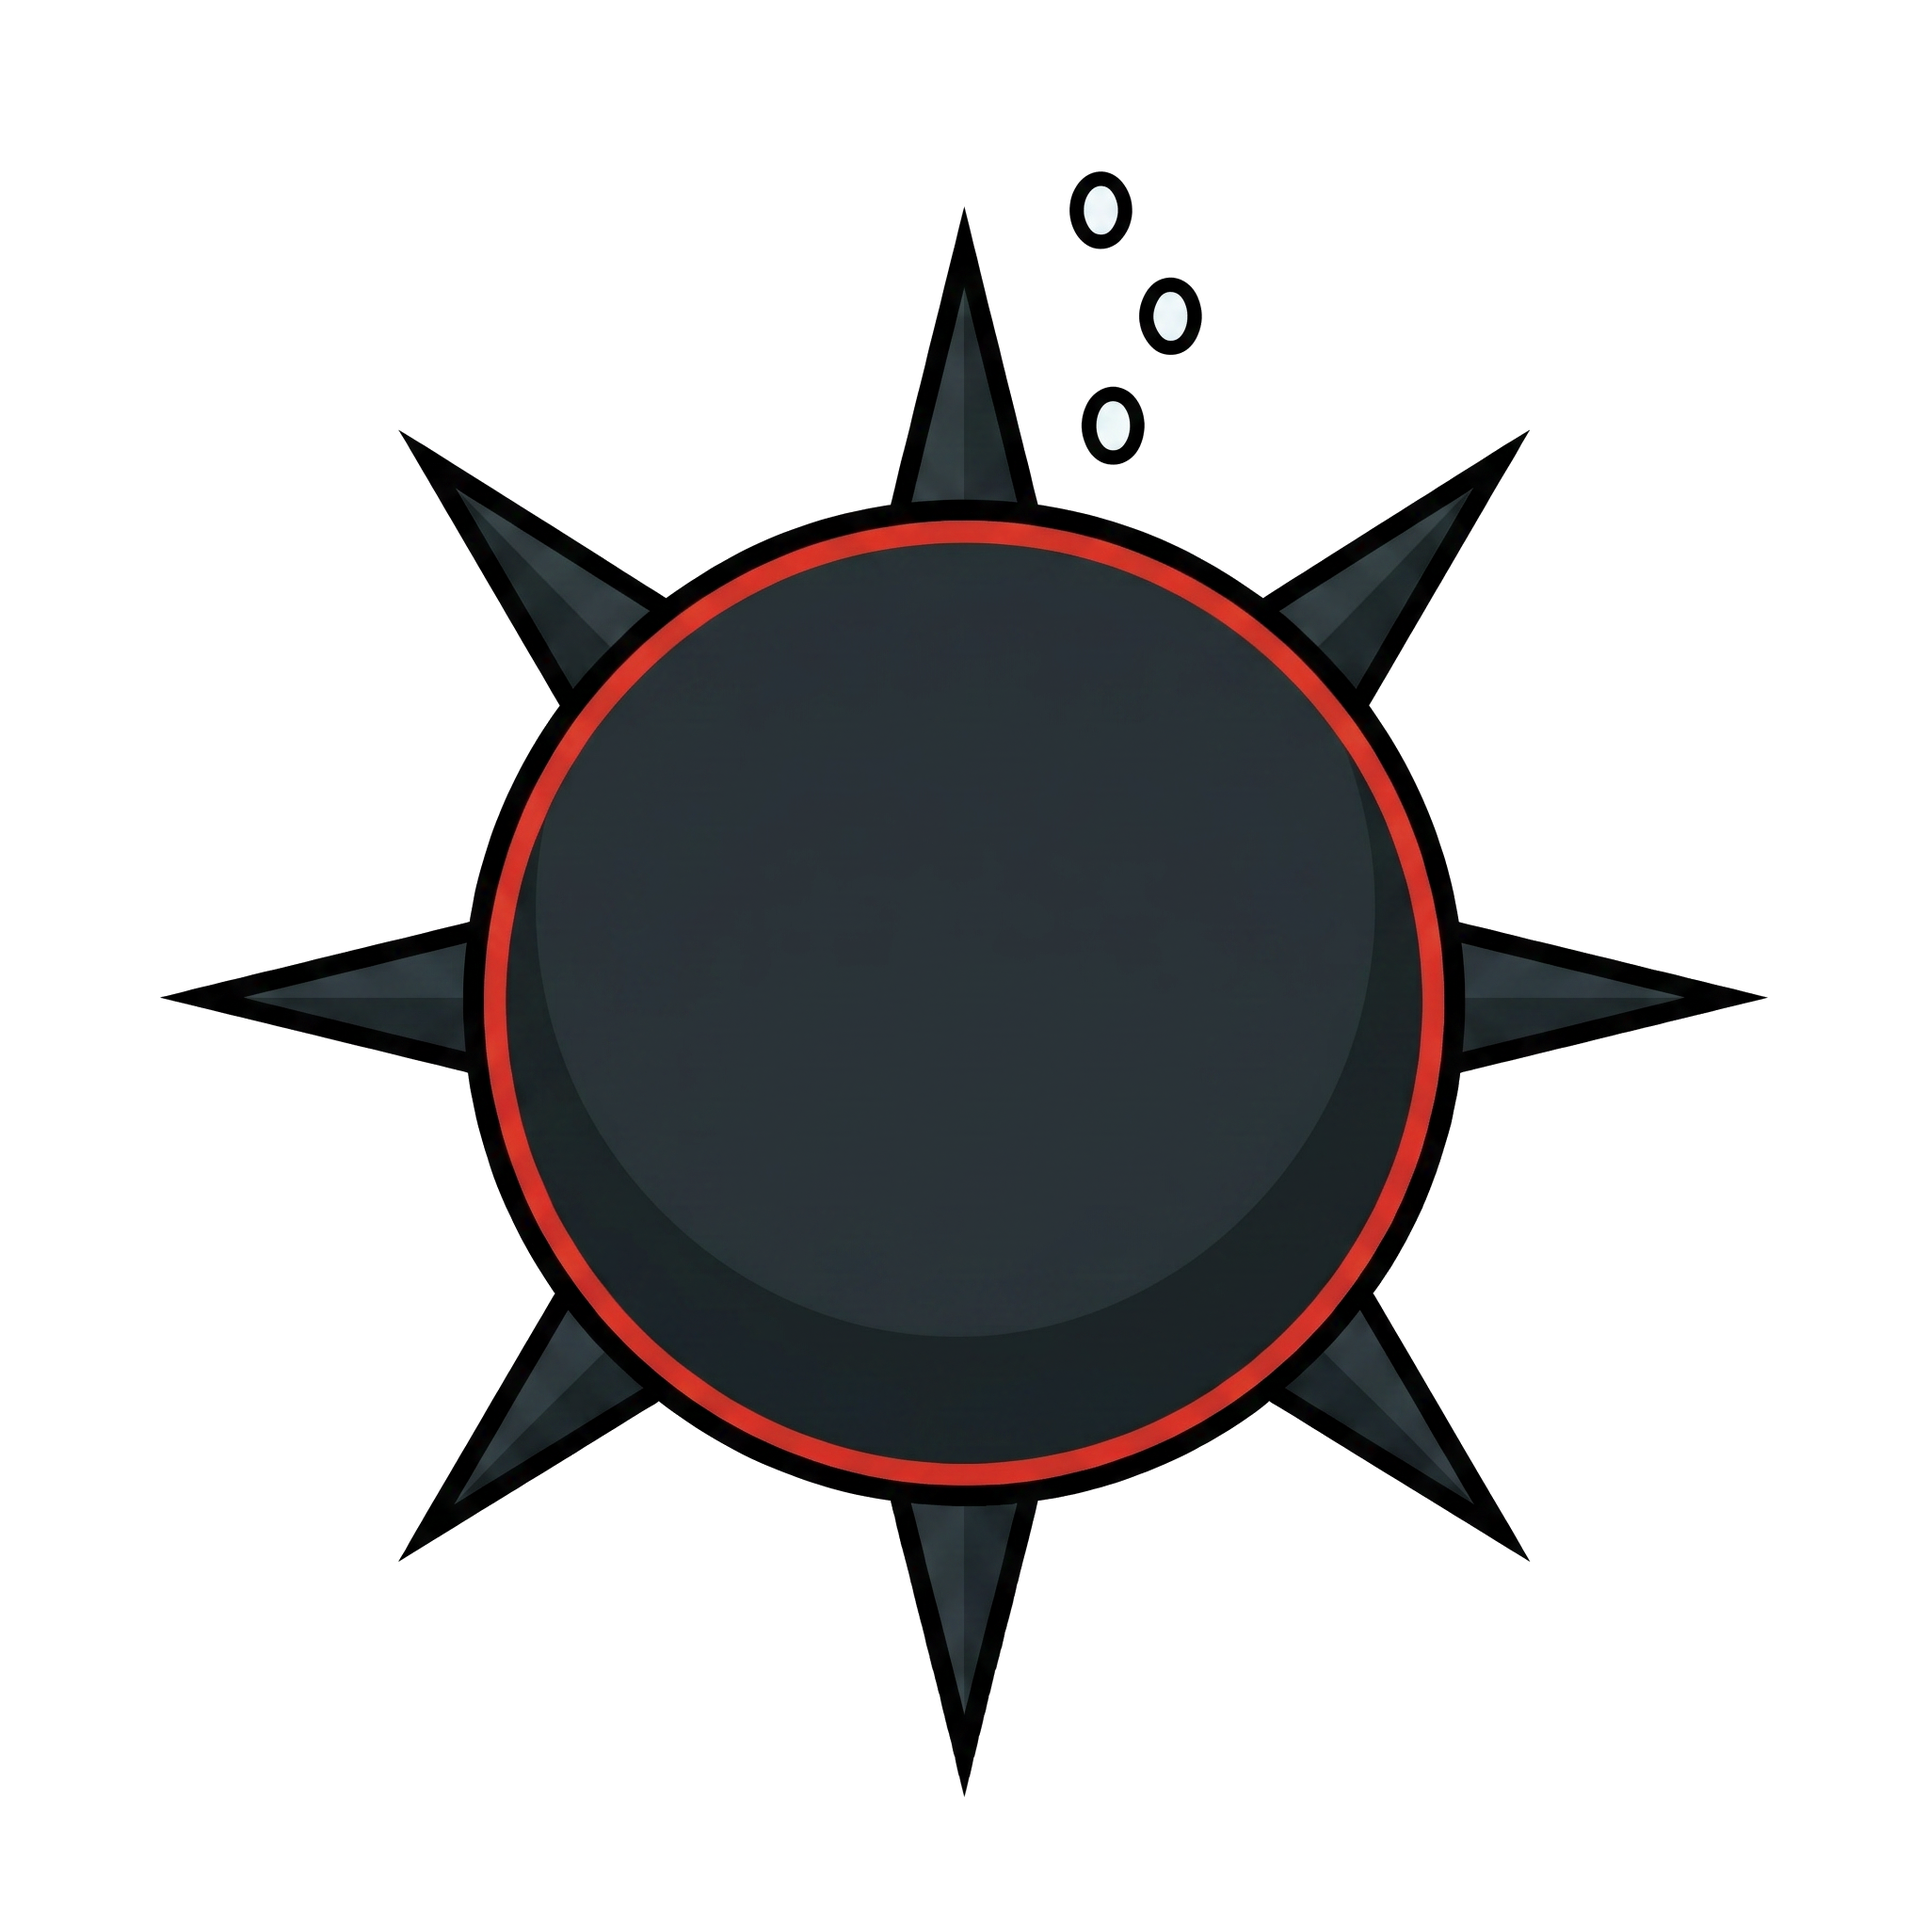
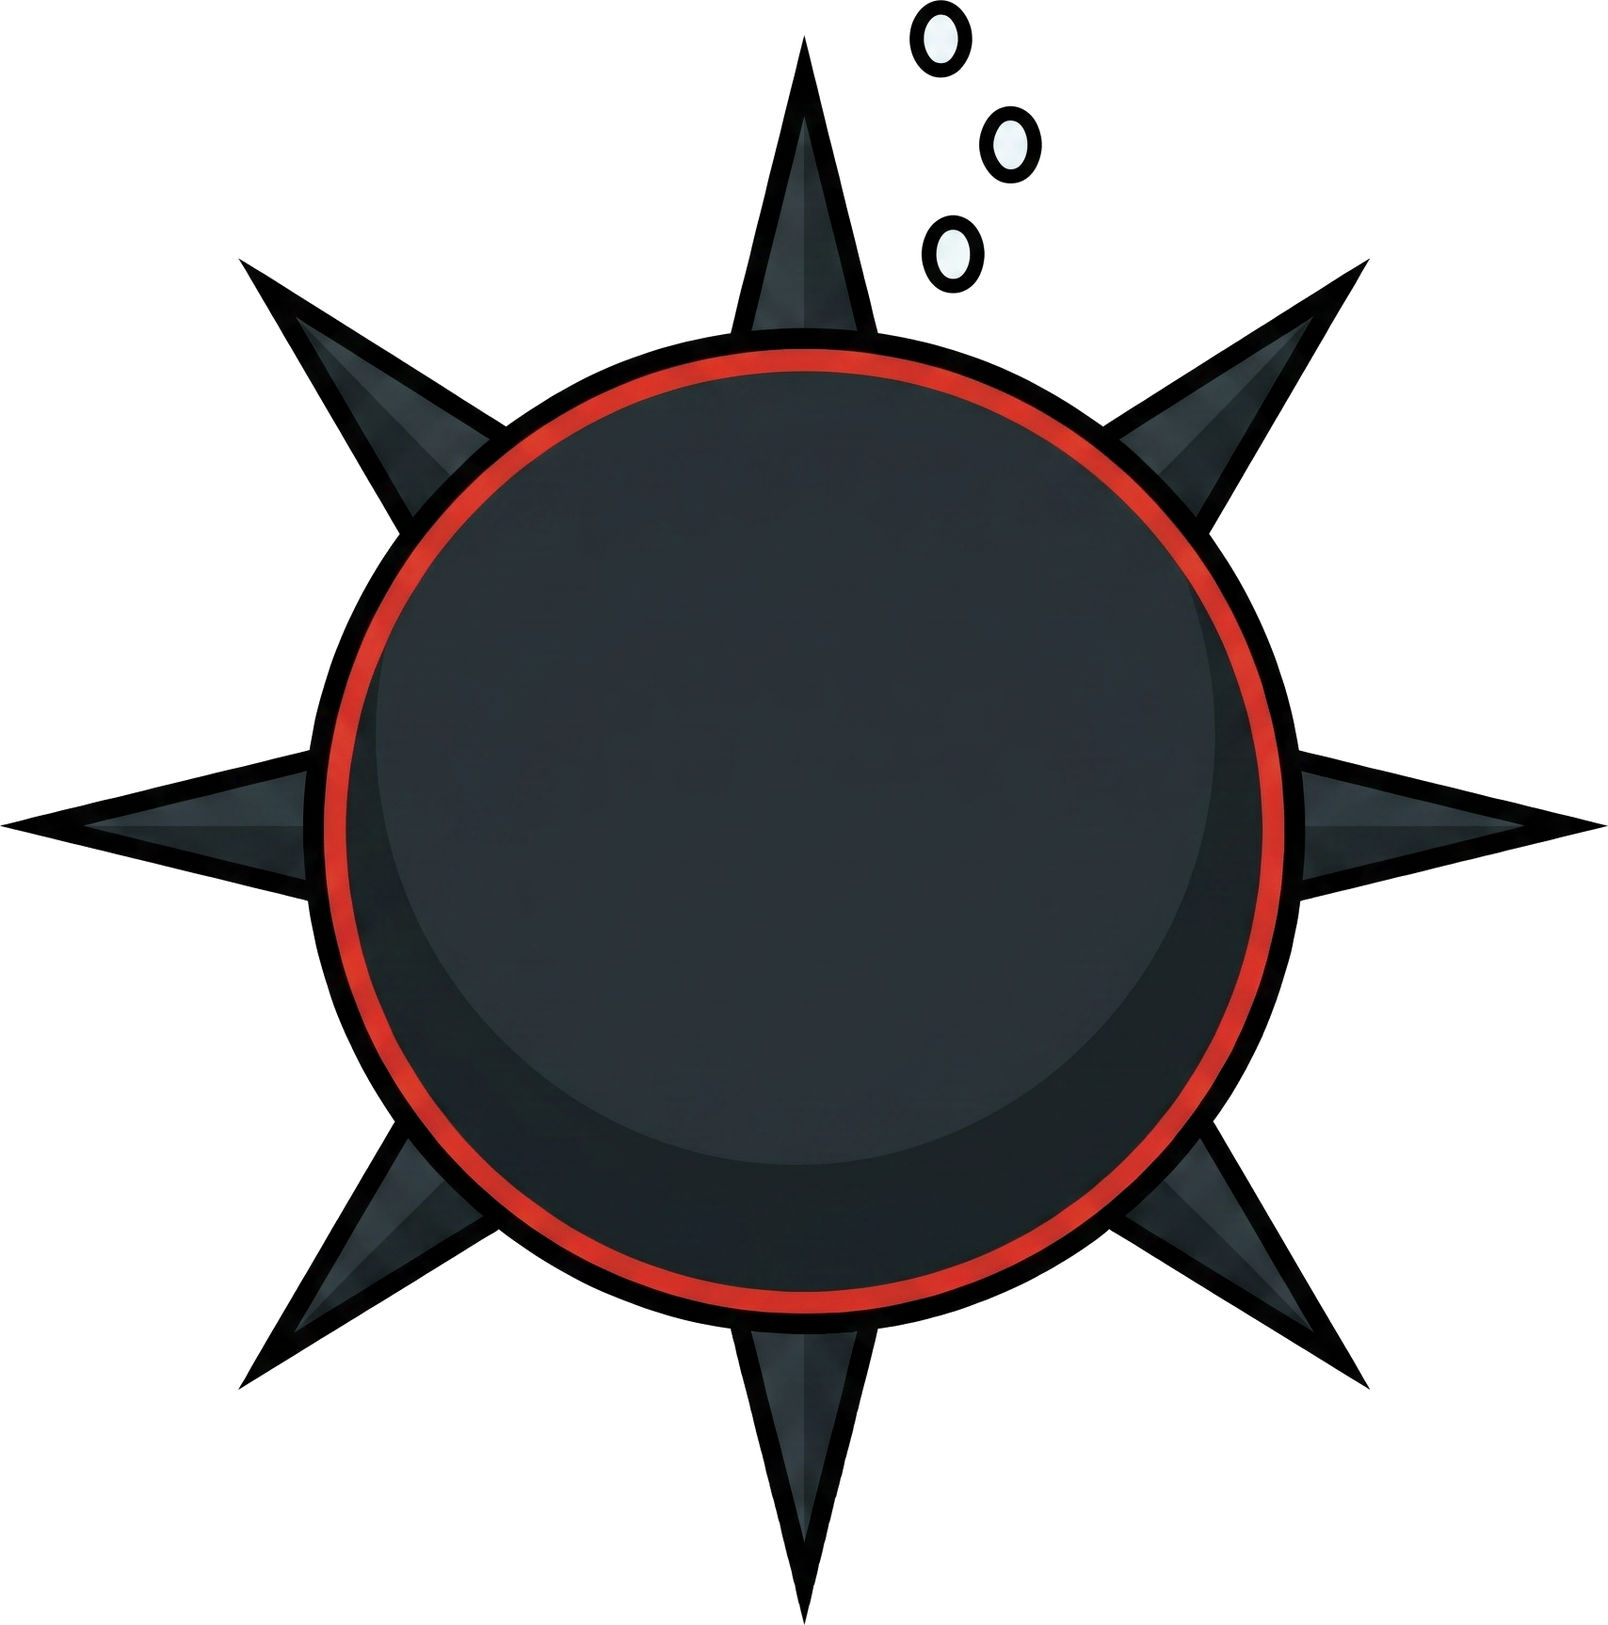
Fair hitboxes: trim sprite margins + forgiving collisions
The generated PNGs had large transparent margins (coral spike body filled
only 32% of its texture width), so collision boxes — sized to the texture —
extended well beyond the visible art, causing "invisible" hits.

- process_sprites.py --trim: crop single-frame sprites to their content
  bounding box so visible art fills the texture. Applied to coral body/base,
  jellyfish, bubble mine, player static.
- CoralSpike: collision width 60→46 and tip inset 16px (COLLISION_WIDTH,
  TIP_FORGIVE) so brushing a spike edge no longer reads as a hit.
- Player capsule 20×56 → 17×46 for a slightly more forgiving hitbox.
- BubbleMine: defer collision disable (was erroring inside the physics
  callback).
- geometry_test: expect 824px spike collision (840 gate half − 16 tip forgive).
- obstacle_test: pin the mine each frame so the WARNING snapshot isn't flaky
  (mine scrolls at BASE_SPEED with no level active).
- All tests green.

https://claude.ai/code/session_01NUbLWs7JXqgqFxdhdKaaqM

Changed region(s): [[0.0, 0.0, 0.993, 1.0]]

diff --git a/tools/process_sprites.py b/tools/process_sprites.py
@@ -135,6 +135,35 @@ def dehalo(img: Image.Image) -> Image.Image:
     return img
 
 
+# Single-frame sprites whose transparent margins should be cropped so the
+# visible art fills the texture (collision boxes are sized to the texture).
+# NEVER trim multi-frame sheets (swim/dive/death) — it breaks the grid.
+SINGLE_SPRITES_TO_TRIM = [
+    "assets/obstacles/coral_spike_body.png",
+    "assets/obstacles/coral_spike_base.png",
+    "assets/obstacles/jellyfish_drift.png",
+    "assets/obstacles/bubble_mine.png",
+    "assets/characters/player.png",
+]
+
+
+def trim_to_content(path: Path) -> bool:
+    """Crop a single-frame sprite to the bounding box of its opaque pixels."""
+    if not path.exists():
+        print(f"  SKIP (missing): {path.relative_to(REPO)}")
+        return False
+    img = Image.open(path).convert("RGBA")
+    bbox = img.getbbox()  # tightest box containing all non-transparent pixels
+    if bbox is None:
+        print(f"  SKIP (empty): {path.relative_to(REPO)}")
+        return False
+    before = img.size
+    cropped = img.crop(bbox)
+    cropped.save(path)
+    print(f"  TRIMMED: {path.relative_to(REPO)}  {before[0]}x{before[1]} -> {cropped.size[0]}x{cropped.size[1]}")
+    return True
+
+
 def process(path: Path, backup: bool) -> bool:
     if not path.exists():
         print(f"  SKIP (missing): {path.relative_to(REPO)}")
@@ -155,6 +184,14 @@ def process(path: Path, backup: bool) -> bool:
 
 
 def main() -> None:
+    if "--trim" in sys.argv[1:]:
+        print("Trimming transparent margins on single-frame sprites:")
+        n = 0
+        for t in SINGLE_SPRITES_TO_TRIM:
+            if trim_to_content(REPO / t):
+                n += 1
+        print(f"Done. {n} sprite(s) trimmed.")
+        return
     args = [a for a in sys.argv[1:] if a != "--backup"]
     backup = "--backup" in sys.argv[1:]
     targets = args if args else DEFAULT_TARGETS
